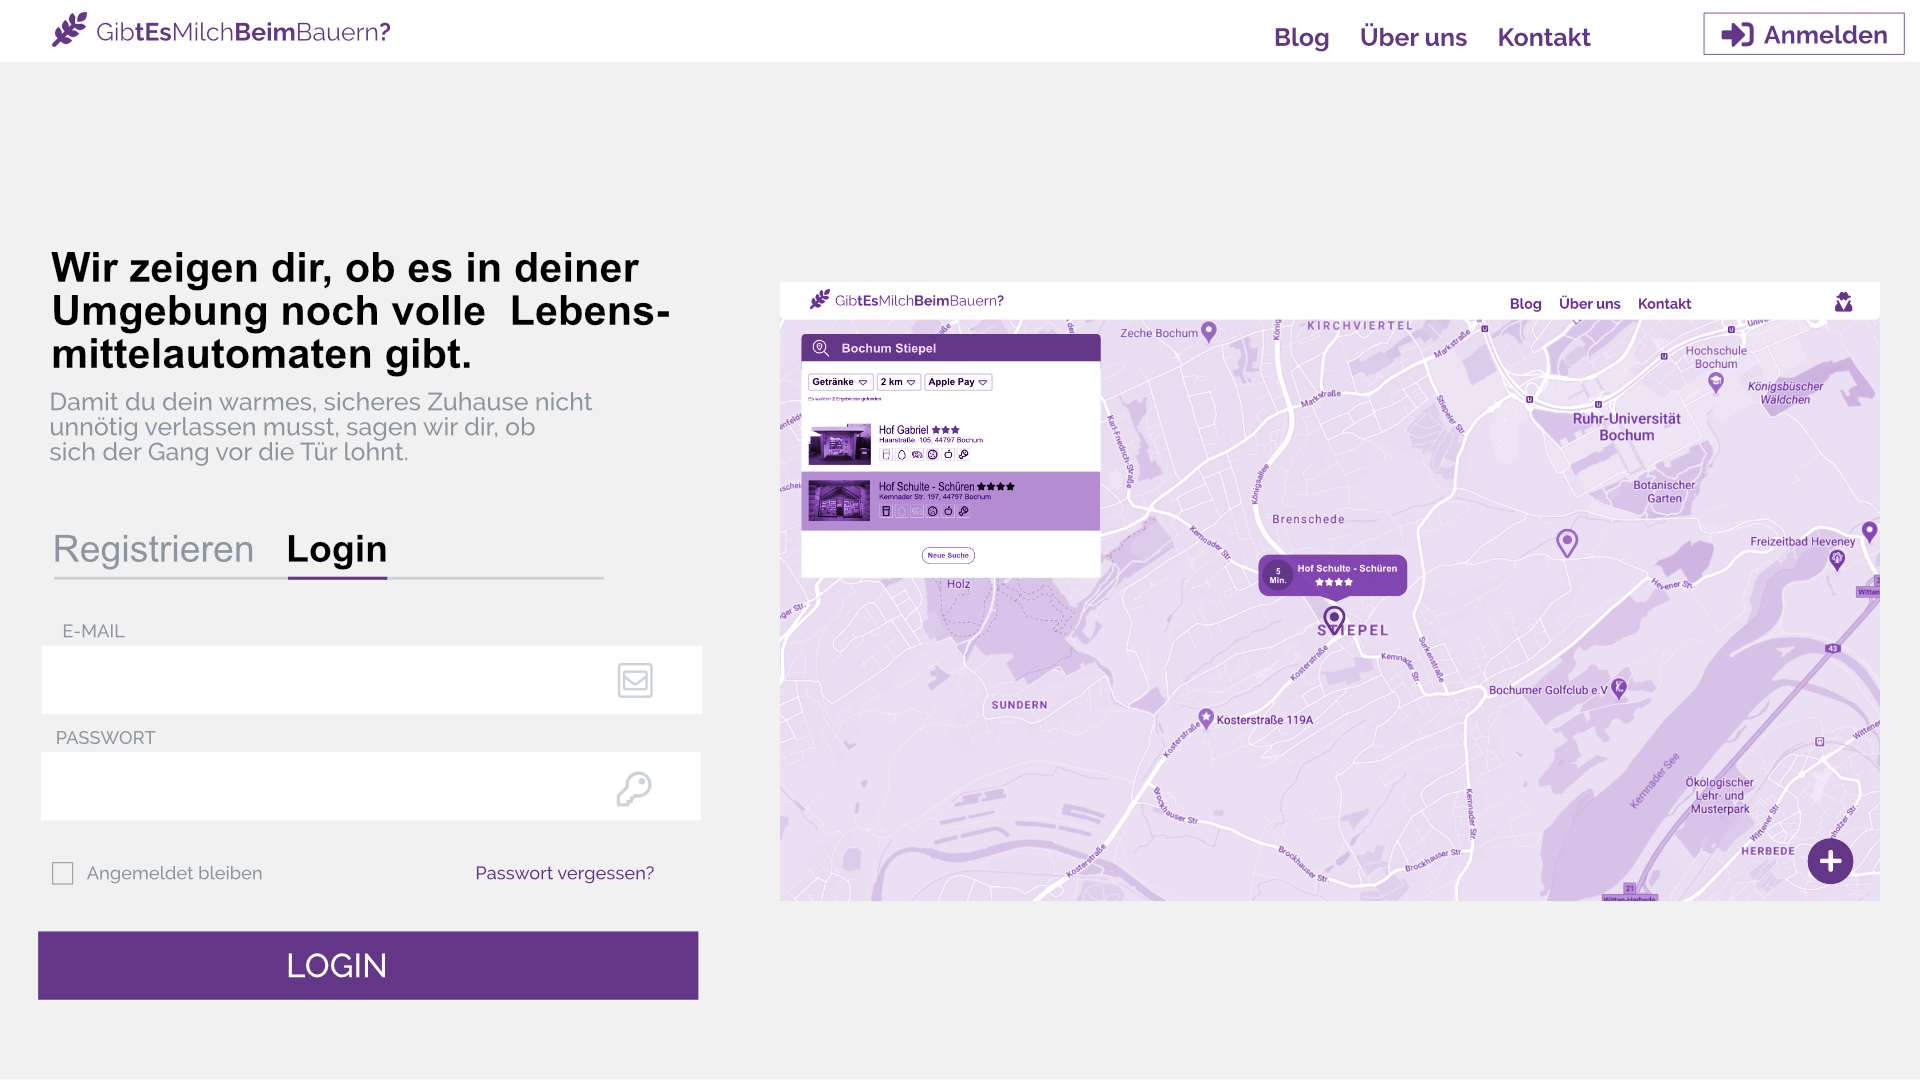
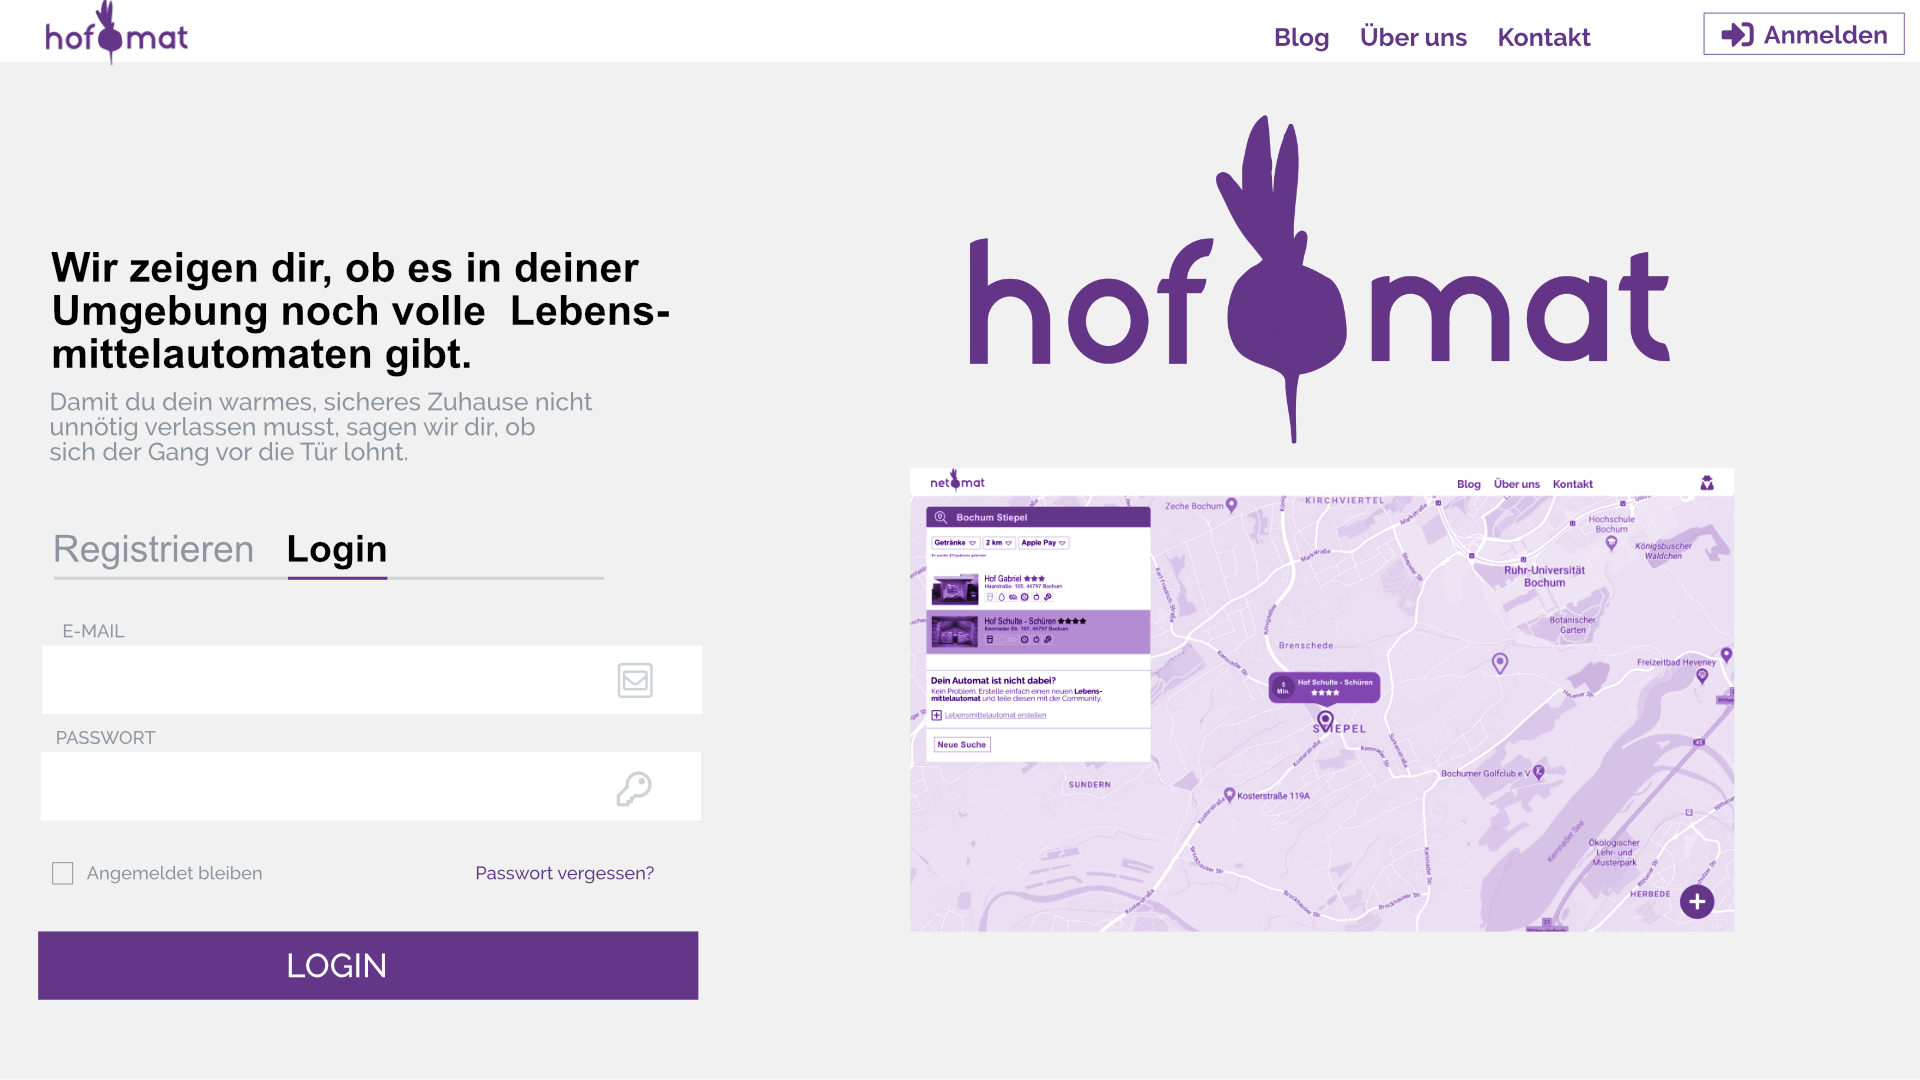
Text changes

Changed region(s): [[0.4062, 0.1222, 1.0, 0.8861], [0.0312, 0.0, 0.1875, 0.0611], [0.4062, 0.55, 0.4375, 0.5806]]

diff --git a/src/index.html b/src/index.html
@@ -2,7 +2,7 @@
 <html>
   <head>
     <meta charset="utf-8">
-    <title>Dezentrale Versorgung des Nötigsten mit Lebensmittelautomaten</title>
+    <title>Hofomat - Dezentrale Versorgung des Nötigsten mit Lebensmittelautomaten</title>
     <base href="/">
 
     <meta name="viewport" content="width=device-width, initial-scale=1">

diff --git a/src/app/components/blocks/card-block/card-block.component.ts b/src/app/components/blocks/card-block/card-block.component.ts
@@ -15,7 +15,7 @@ export class CardBlockComponent {
   angularImage3: string;
 
   constructor() {
-    this.angularImage1 = '/assets/img/angular2.png';
+    this.angularImage1 = '/assets/img/bauer.png';
     this.angularImage2 = '/assets/img/angular2.png';
     this.angularImage3 = '/assets/img/angular2.png';}
 

diff --git a/src/app/pages/home/home.component.ts b/src/app/pages/home/home.component.ts
@@ -112,10 +112,11 @@ export class HomeComponent {
       },
       label: {
         color: 'red',
-        text: label,
+        text: label
       },
       title,
       options: { animation: google.maps.Animation.BOUNCE },
+
     })
   }
 
